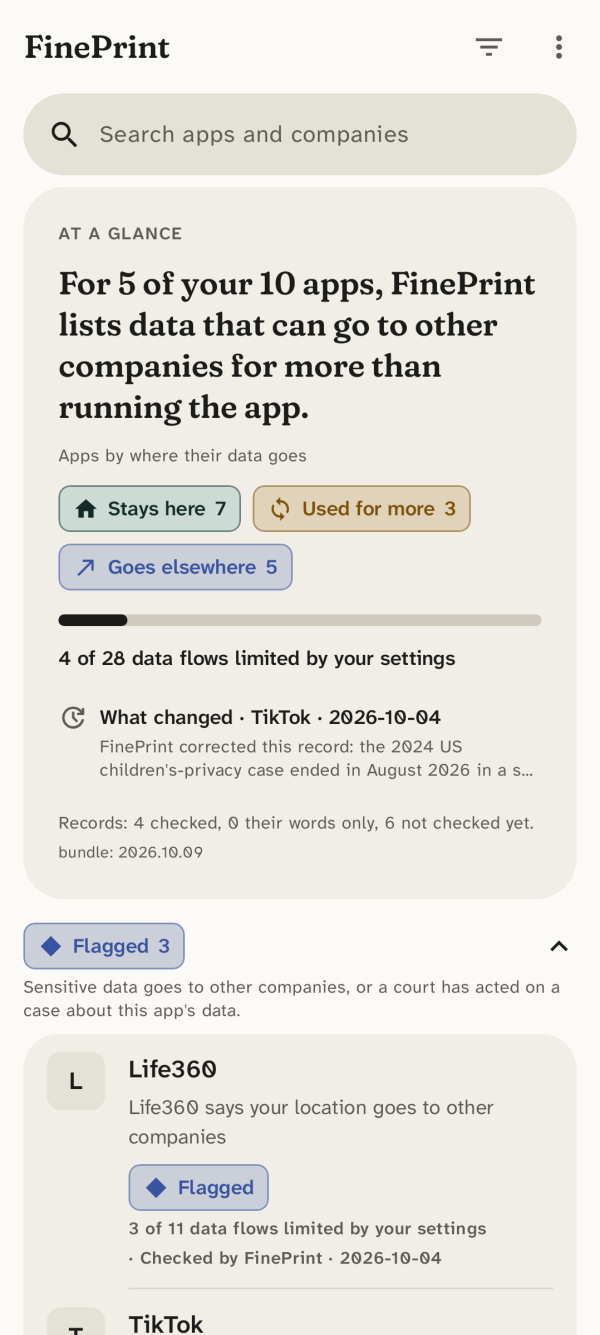
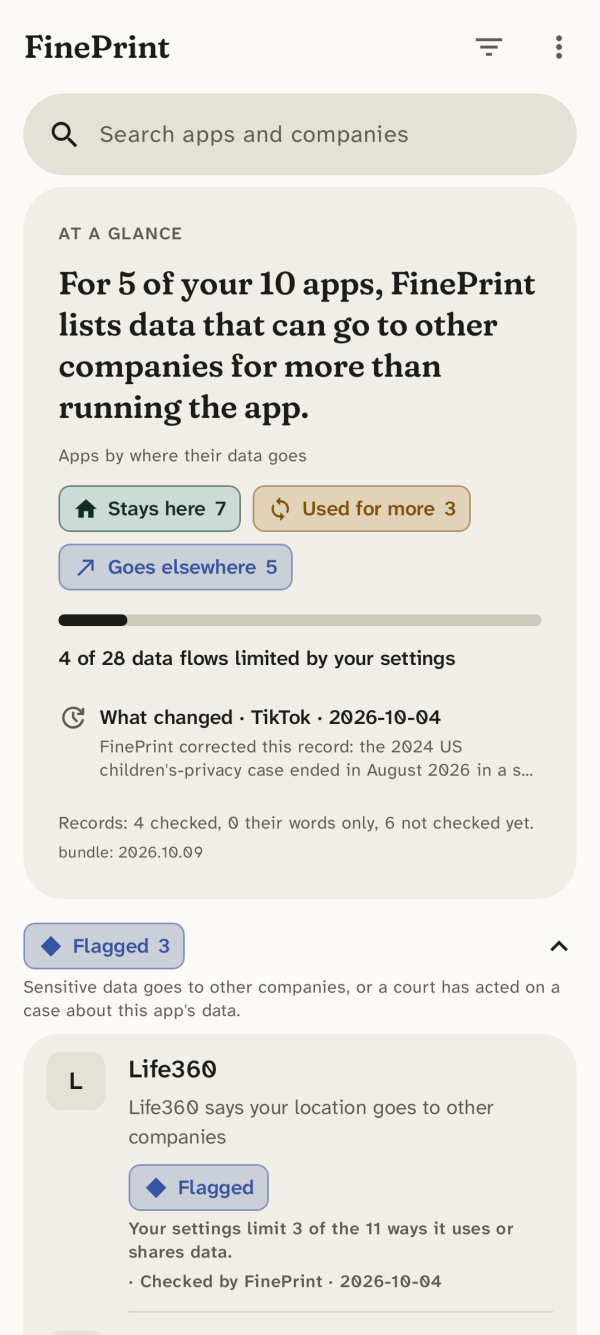
Reading pass: the fine print's caption, a plainer count, See all told apart
The fine print's eyebrow is THE FINE PRINT alone, with a caption under
it in the style of Their words' own: "Its privacy policy, store labels
and the public record on your data, in plain words."

An app's count of what its settings limit drops "flows": "Your settings
limit 3 of the 11 ways it uses or shares data." (on its page, its What
you can do card and its row on the home). At a glance keeps W13's "4 of
28 data flows limited by your settings".

The fine print's See all and a place's can show the same words ("See
all 16"). The words stay; TalkBack hears "See all 16 in the fine print"
or "See all 16 for Goes elsewhere", and the same for Show the first 4
(SeeAllTest).

How to read's Voice section gains a standing rule: no sentence starts
with Or, and a tier's definition is a short line plus a full line that
lists the conditions. pipeline/README.md names the button as the app
does: Ask FinePrint to check this app. README screenshots redrawn.

Claude-Session: https://claude.ai/code/session_016cezgH7PfKCPMWXu7PCC2T

Changed region(s): [[0.21, 0.8906, 0.75, 1.0], [0.78, 0.9213, 0.81, 0.9521], [0.12, 0.9828, 0.15, 1.0]]

diff --git a/android/app/src/main/java/com/longlifeio/fineprint/ui/DetailHero.kt b/android/app/src/main/java/com/longlifeio/fineprint/ui/DetailHero.kt
@@ -44,7 +44,6 @@ import com.longlifeio.fineprint.explain.ALSO
 import com.longlifeio.fineprint.explain.CHANGED
 import com.longlifeio.fineprint.explain.Explanation
 import com.longlifeio.fineprint.explain.FINE_PRINT_FIRST
-import com.longlifeio.fineprint.explain.FINE_PRINT_HEADING
 import com.longlifeio.fineprint.explain.FinePrintLine
 import com.longlifeio.fineprint.explain.FoldedLines
 import com.longlifeio.fineprint.explain.NO_RECORD
@@ -118,7 +117,7 @@ internal fun StoreTagline.asSource() = Source(sourceUrl, listingName(sourceUrl),
 
 /**
  * The hero (docs/METHOD.md, An app's page): the app's own short description, verbatim and attributed, then The fine
- * print · what FinePrint found: FinePrint's lines in reading order, each marked with an asterisk, in small type, those
+ * print and its caption: FinePrint's lines in reading order, each marked with an asterisk, in small type, those
  * that set the [tier] first under "Why it's Flagged" (or Caution) and the rest under "Also"; the first four, then See all.
  * Last, what it collects to run the app, folded into one line that opens to those lines.
  */
@@ -137,7 +136,8 @@ internal fun TheirWords(tagline: StoreTagline, lines: List<FinePrintLine>, folde
         Text(THEIR_WORDS.subtitle, style = MaterialTheme.typography.bodySmall, color = p.muted)
         if (lines.isNotEmpty() || folded != null) {
             HorizontalDivider(Modifier.padding(vertical = Space.s), color = p.divider)
-            Eyebrow(FINE_PRINT_HEADING)
+            Eyebrow(THE_FINE_PRINT.title)
+            Text(THE_FINE_PRINT.subtitle, style = MaterialTheme.typography.bodySmall, color = p.muted)
             val shown = if (all) lines else lines.take(FINE_PRINT_FIRST)
             val why = tier?.takeIf { lines.any { it.setsTier } }
             shown.forEachIndexed { i, line ->
@@ -147,14 +147,16 @@ internal fun TheirWords(tagline: StoreTagline, lines: List<FinePrintLine>, folde
             }
             if (lines.size > FINE_PRINT_FIRST) {
                 Box(Modifier.testTag("fine-print-all")) {
-                    LinkRow(if (all) "Show the first $FINE_PRINT_FIRST" else "See all ${lines.size}", if (all) R.drawable.ic_expand_less else R.drawable.ic_expand_more, inset = 0.dp) { all = !all }
+                    val label = if (all) "Show the first $FINE_PRINT_FIRST" else "See all ${lines.size}"
+                    // A place under Where it goes can show the same words; TalkBack hears which this is.
+                    LinkRow(label, if (all) R.drawable.ic_expand_less else R.drawable.ic_expand_more, inset = 0.dp, spoken = "$label in the fine print") { all = !all }
                 }
             }
             folded?.let { FoldedRow(it) }
         }
         val sources = (listOf(tagline.asSource()) + lines.flatMap { it.sources } + folded?.lines.orEmpty().flatMap { it.sources })
             .distinctBy { it.url + "|" + it.title }
-        SourcesRow("${THEIR_WORDS.title} and ${THE_FINE_PRINT.lowercase()}", sources, null, onSources)
+        SourcesRow("${THEIR_WORDS.title} and ${THE_FINE_PRINT.title.lowercase()}", sources, null, onSources)
     }
 }
 

diff --git a/android/app/src/test/java/com/longlifeio/fineprint/ui/SeeAllTest.kt b/android/app/src/test/java/com/longlifeio/fineprint/ui/SeeAllTest.kt
@@ -1,0 +1,54 @@
+package com.longlifeio.fineprint.ui
+
+import androidx.compose.ui.test.hasContentDescription
+import androidx.compose.ui.test.junit4.createComposeRule
+import androidx.compose.ui.test.onNodeWithTag
+import androidx.compose.ui.test.performScrollToNode
+import com.longlifeio.fineprint.bundle.parseBundle
+import com.longlifeio.fineprint.design.parseFixture
+import com.longlifeio.fineprint.egress.parseTrackerSignatures
+import com.longlifeio.fineprint.explain.GOES_ELSEWHERE
+import com.longlifeio.fineprint.explain.explain
+import com.longlifeio.fineprint.explain.finePrint
+import com.longlifeio.fineprint.explain.whatYouCanDo
+import com.longlifeio.fineprint.review.ReviewStatus
+import com.longlifeio.fineprint.review.ReviewView
+import org.junit.Assert.assertTrue
+import org.junit.Rule
+import org.junit.Test
+import org.junit.runner.RunWith
+import org.robolectric.RobolectricTestRunner
+import org.robolectric.annotation.Config
+import org.robolectric.annotation.GraphicsMode
+import java.io.File
+
+/** The fine print's See all and a place's can show the same words ("See all 16"); TalkBack hears which is which. */
+@RunWith(RobolectricTestRunner::class)
+@GraphicsMode(GraphicsMode.Mode.NATIVE)
+@Config(sdk = [36], qualifiers = "w411dp-h914dp-420dpi")
+class SeeAllTest {
+
+    @get:Rule val compose = createComposeRule()
+
+    @Test
+    fun eachSeeAllSaysWhatItOpens() {
+        val bundle = parseBundle(File("../../bundle/bundle.json").readText(), File("../../bundle/jurisdictions.json").readText())
+        val signatures = parseTrackerSignatures(File("src/main/assets/trackers.json").readText()).trackers.associateBy { it.id }
+        val (apps, scans) = parseFixture(File("src/debug/assets/scan-fixture.json").readText())
+        val app = apps.single { it.packageName == "com.life360.android.safetymapd" }
+        val e = explain(app, scans[app.scanKey], bundle, signatures)
+        val (lines, place) = finePrint(e).size to e.flows.getValue(GOES_ELSEWHERE).size
+        assertTrue("both have more than they show first", lines > 4 && place > 4)
+        compose.setContent {
+            AppDetailScreen(
+                app = app, explanation = e, check = whatYouCanDo(app, e, bundle.apps[app.packageName], bundle.permissions.mapValues { it.value.feeds }, emptySet()),
+                review = ReviewView(ReviewStatus.NOT_REVIEWED), result = scans[app.scanKey], signatures = null, bundleVersion = bundle.version,
+                onBack = {}, onOpenSettings = {}, onHowToRead = {}, onMarkReviewed = {}, onClearMark = {}, onTick = { _, _ -> },
+                buckets = OpenBuckets({ _, default -> default }, { _, _ -> }),
+            )
+        }
+        val page = compose.onNodeWithTag("detail")
+        page.performScrollToNode(hasContentDescription("See all $lines in the fine print"))
+        page.performScrollToNode(hasContentDescription("See all $place for Goes elsewhere"))
+    }
+}

diff --git a/android/app/src/main/java/com/longlifeio/fineprint/ui/DetailSections.kt b/android/app/src/main/java/com/longlifeio/fineprint/ui/DetailSections.kt
@@ -23,6 +23,7 @@ import androidx.compose.ui.Modifier
 import androidx.compose.ui.platform.testTag
 import androidx.compose.ui.res.painterResource
 import androidx.compose.ui.semantics.clearAndSetSemantics
+import androidx.compose.ui.semantics.contentDescription
 import androidx.compose.ui.semantics.heading
 import androidx.compose.ui.semantics.text
 import androidx.compose.ui.text.AnnotatedString
@@ -113,7 +114,8 @@ fun LazyListScope.detailSections(
             if (lines.size > BUCKET_FIRST) {
                 cardItem(key = "more:$bucket") {
                     Box(Modifier.testTag("more:$bucket")) {
-                        LinkRow(if (all) "Show the first $BUCKET_FIRST" else "See all ${lines.size}", if (all) R.drawable.ic_expand_less else R.drawable.ic_expand_more) { buckets.toggle(bucket) }
+                        val label = if (all) "Show the first $BUCKET_FIRST" else "See all ${lines.size}"
+                        LinkRow(label, if (all) R.drawable.ic_expand_less else R.drawable.ic_expand_more, spoken = "$label for ${BUCKET_TEXT.getValue(bucket).title}") { buckets.toggle(bucket) }
                     }
                 }
             }
@@ -239,15 +241,19 @@ private fun DataChip(label: String) {
     }
 }
 
-/** A text link with an icon, 48dp tall; [inset] is its side padding (none in the hero, whose card pads it). */
+/**
+ * A text link with an icon, 48dp tall; [inset] is its side padding (none in the hero, whose card pads it), and [spoken]
+ * what TalkBack reads when the words alone don't say which link this is.
+ */
 @Composable
-fun LinkRow(text: String, icon: Int, inset: Dp = 16.dp, onClick: (() -> Unit)?) {
+fun LinkRow(text: String, icon: Int, inset: Dp = 16.dp, spoken: String? = null, onClick: (() -> Unit)?) {
     val colour = if (onClick != null) MaterialTheme.colorScheme.primary else MaterialTheme.colorScheme.onSurfaceVariant
     Row(
         verticalAlignment = Alignment.CenterVertically,
         horizontalArrangement = Arrangement.spacedBy(8.dp),
         // Null: shown, but it opens nothing (a note under it says why).
-        modifier = Modifier.fillMaxWidth().heightIn(min = TOUCH).clickable(enabled = onClick != null) { onClick?.invoke() }.padding(horizontal = inset),
+        modifier = Modifier.fillMaxWidth().heightIn(min = TOUCH).clickable(enabled = onClick != null) { onClick?.invoke() }
+            .then(if (spoken != null) Modifier.semantics { contentDescription = spoken } else Modifier).padding(horizontal = inset),
     ) {
         Text(text, style = MaterialTheme.typography.labelLarge, color = colour, modifier = Modifier.weight(1f))
         Icon(painterResource(icon), contentDescription = null, tint = colour, modifier = Modifier.size(20.dp))

diff --git a/android/app/src/test/java/com/longlifeio/fineprint/explain/WhatYouCanDoTest.kt b/android/app/src/test/java/com/longlifeio/fineprint/explain/WhatYouCanDoTest.kt
@@ -35,9 +35,9 @@ class WhatYouCanDoTest {
         assertEquals(listOf(true, false), on.items.map { it.automatic })
         assertEquals(false, on.items.first().ticked)
         // Two current lines go beyond the app (Partners, and Arity's alleged flow); nothing limits them yet.
-        assertEquals("0 of 2 data flows limited by your settings", on.summary)
+        assertEquals("Your settings limit 0 of the 2 ways it uses or shares data.", on.summary)
         // Turning precise location off in Android limits both: both are location or driving data.
-        assertEquals("2 of 2 data flows limited by your settings", check(fineLocationGranted = false).summary)
+        assertEquals("Your settings limit 2 of the 2 ways it uses or shares data.", check(fineLocationGranted = false).summary)
     }
 
     @Test
@@ -46,7 +46,7 @@ class WhatYouCanDoTest {
         val partners = ticked.items.single { it.id == "ctl-partners" }
         assertEquals(true, partners.ticked)
         assertEquals("Example doesn't say what changes.", partners.effect)
-        assertEquals("1 of 2 data flows limited by your settings", ticked.summary)
+        assertEquals("Your settings limit 1 of the 2 ways it uses or shares data.", ticked.summary)
         assertNull(ticked.inAppText) // the record's structured controls replace its free text
     }
 
@@ -79,7 +79,7 @@ class WhatYouCanDoTest {
         )
         val c = whatYouCanDo(life360, explain(life360, scan, real, emptyMap()), real.apps.getValue(life360.packageName), real.permissions.mapValues { it.value.feeds }, emptySet())
         // Six current lines from Life360's record, Arity's alleged line and AdMob's three from Google's own disclosure.
-        assertEquals("3 of 10 data flows limited by your settings", c.summary)
+        assertEquals("Your settings limit 3 of the 10 ways it uses or shares data.", c.summary)
         val choices = c.items.single { it.id == "ctl-l360-privacy-choices" }
         assertEquals(listOf(true), choices.notes.map { it.startsWith("Life360's policy says this covers sales of precise location") })
         assertEquals(CHECK_IN_APP, choices.subtext)

diff --git a/android/app/src/test/java/com/longlifeio/fineprint/explain/MethodDocTest.kt b/android/app/src/test/java/com/longlifeio/fineprint/explain/MethodDocTest.kt
@@ -19,7 +19,7 @@ class MethodDocTest {
 
     @Test
     fun everyDefinitionTheScreensShowIsInTheMethod() {
-        val sections = listOf(SUMMARY_CURATED, SUMMARY_AUTO, SUMMARY_INHERITED, COLLECTS, WHERE_IT_GOES, APPLIES, WHAT_YOU_CAN_DO, ON_THE_RECORD, ONGOING, PAST, ALSO_REPORTED, DEVICE_ACCESS, EVIDENCE, RECENT_CHANGES, HISTORY, JURISDICTIONS, SOURCES, THEIR_WORDS)
+        val sections = listOf(SUMMARY_CURATED, SUMMARY_AUTO, SUMMARY_INHERITED, COLLECTS, WHERE_IT_GOES, APPLIES, WHAT_YOU_CAN_DO, ON_THE_RECORD, ONGOING, PAST, ALSO_REPORTED, DEVICE_ACCESS, EVIDENCE, RECENT_CHANGES, HISTORY, JURISDICTIONS, SOURCES, THEIR_WORDS, THE_FINE_PRINT)
         val shown = sections.flatMap { listOf(it.title, it.subtitle) } +
             BUCKET_TEXT.values.flatMap { listOf(it.title, it.subtitle) } +
             BADGES.values.flatMap { listOf(it.label, it.definition) } +
@@ -33,7 +33,7 @@ class MethodDocTest {
             listOf(NOT_RECORDED.title, NOT_RECORDED.subtitle, ALSO_COLLECTED, PURPOSE_NOT_RECORDED, CANT_SEE_SETTING) +
             listOf(CHECKED_BY, THEIR_WORDS_ONLY_LINE, NO_RECORD_LINE, ListFilter.CHECKED.label, ListFilter.THEIR_WORDS.label) +
             listOf(ASK_FOR_REVIEW, REVIEW_DISCLOSURE, OPEN_GITHUB) +
-            listOf("$WHY:", whyItIs(Tier.FLAGGED), whyItIs(Tier.CAUTION), ALSO, FINE_PRINT_HEADING, lastChecked("this law", "2026-10-07"), "Show it in full") + BUCKETS.map { "${BUCKET_TEXT.getValue(it).title} · ${BUCKET_GLOSS.getValue(it)}" } +
+            listOf("$WHY:", whyItIs(Tier.FLAGGED), whyItIs(Tier.CAUTION), ALSO, lastChecked("this law", "2026-10-07"), "Show it in full") + BUCKETS.map { "${BUCKET_TEXT.getValue(it).title} · ${BUCKET_GLOSS.getValue(it)}" } +
             listOf(CHECK_ANDROID_OFF, CHECK_ANDROID_ON, CHECK_IN_APP, CHECK_ANDROID_UNSEEN)
         assertEquals(emptyList<String>(), shown.filterNot { it in published })
     }

diff --git a/android/app/src/androidTest/java/com/longlifeio/fineprint/ui/DetailTest.kt b/android/app/src/androidTest/java/com/longlifeio/fineprint/ui/DetailTest.kt
@@ -27,7 +27,7 @@ import androidx.compose.ui.test.hasAnyAncestor
 import androidx.compose.ui.test.hasTestTag
 import com.longlifeio.fineprint.explain.explain
 import com.longlifeio.fineprint.explain.FINE_PRINT_FIRST
-import com.longlifeio.fineprint.explain.FINE_PRINT_HEADING
+import com.longlifeio.fineprint.explain.THE_FINE_PRINT
 import com.longlifeio.fineprint.explain.finePrint
 import com.longlifeio.fineprint.explain.spoken
 import com.longlifeio.fineprint.explain.whatYouCanDo
@@ -87,7 +87,8 @@ class DetailTest {
         compose.onNodeWithText(THEIR_WORDS.title).assertExists()
         compose.onNodeWithText("“${tagline.text}”").assertExists() // read without the asterisk that points at the fine print
         compose.onNodeWithText("— Google Play listing (Canada), read 2026-10-07").assertExists()
-        compose.onNodeWithText(FINE_PRINT_HEADING).assertExists()
+        compose.onNodeWithText(THE_FINE_PRINT.title).assertExists()
+        compose.onNodeWithText(THE_FINE_PRINT.subtitle).assertExists()
         // The first four fine-print lines, each one stop for TalkBack; their asterisks are drawn, not read. See all opens the rest.
         val lines = finePrint(e)
         assertTrue(lines.size > FINE_PRINT_FIRST)

diff --git a/android/app/src/main/java/com/longlifeio/fineprint/explain/WhatYouCanDo.kt b/android/app/src/main/java/com/longlifeio/fineprint/explain/WhatYouCanDo.kt
@@ -35,8 +35,8 @@ data class CheckItem(
 
 /** The "What you can do" checklist, how many of the app's current flows it limits, and free-text controls for records without structured ones. */
 data class WhatYouCanDo(val items: List<CheckItem>, val limited: Int, val total: Int, val inAppText: String?) {
-    /** "3 of 11 data flows limited by your settings"; null when nothing goes beyond running the app. */
-    val summary: String? get() = if (total == 0) null else "$limited of $total data ${if (total == 1) "flow" else "flows"} limited by your settings"
+    /** "Your settings limit 3 of the 11 ways it uses or shares data."; null when nothing goes beyond running the app. */
+    val summary: String? get() = if (total == 0) null else "Your settings limit $limited of the $total ${if (total == 1) "way" else "ways"} it uses or shares data."
 }
 
 private const val AD_ID = "com.google.android.gms.permission.AD_ID"

diff --git a/android/app/src/main/java/com/longlifeio/fineprint/explain/Wording.kt b/android/app/src/main/java/com/longlifeio/fineprint/explain/Wording.kt
@@ -52,8 +52,7 @@ val SOURCES = SectionText("Sources", "Every number on this page is one of these,
 /** The top of an app's page, when its store description is on record. */
 val THEIR_WORDS = SectionText("Their words", "The app's own short description on its Google Play listing, word for word.")
 /** The hero's second part, FinePrint's own claims: the first four, then See all. */
-const val THE_FINE_PRINT = "The fine print"
-const val FINE_PRINT_HEADING = "$THE_FINE_PRINT · what FinePrint found"
+val THE_FINE_PRINT = SectionText("The fine print", "Its privacy policy, store labels and the public record on your data, in plain words.")
 /** The home's bar: the product's name, shown on no other screen. */
 const val HOME_WORDMARK = "FinePrint"
 

diff --git a/android/app/src/main/assets/METHOD.md b/android/app/src/main/assets/METHOD.md
@@ -29,7 +29,7 @@ The home shows the same on each app in small text, such as Checked by FinePrint 
 When FinePrint has an app's store description on record, its page opens with it, above the sections:
 
 - Their words: The app's own short description on its Google Play listing, word for word.
-- The fine print · what FinePrint found: FinePrint's own claims about the app, chosen the same way for every app.
+- The fine print: Its privacy policy, store labels and the public record on your data, in plain words.
 
 The fine print lists FinePrint's claims in the reading order set out under Where data goes, from what goes to other companies and what the app's own company uses it for: the claims that set the tier first, under Why it's Flagged or Why it's Caution, and the rest under Also. It shows the first four, then See all with how many there are. A claim from a lawsuit or complaint is there only once a judge has let the case go ahead or a regulator has opened a proceeding; one that has only been filed stays under Where it goes and On the record. What the app collects to run itself follows as one line, Also collected to run the app, which opens to those claims, each with its badge. An app without a store description on record opens with its Summary.
 
@@ -162,7 +162,7 @@ The line under each item says which kind it is:
 - Check this yourself — FinePrint can't see settings inside other apps.
 - Check this yourself — FinePrint can't see this Android setting.
 
-The page and the list say how many of the app's current flows your settings limit, such as 3 of 7 data flows limited by your settings. Each flow counts once: a line FinePrint inferred from tracker code counts only when it adds data that the checked lines don't already cover. Flows that stay with the app, and past practices, aren't counted.
+The page and the list say how many of the app's current flows your settings limit, such as Your settings limit 3 of the 7 ways it uses or shares data. Each flow counts once: a line FinePrint inferred from tracker code counts only when it adds data that the checked lines don't already cover. Flows that stay with the app, and past practices, aren't counted.
 
 - Limited: Limited means a setting you've changed applies to it: an Android permission turned off, or an in-app setting ticked. Limited doesn't mean stopped.
 
@@ -265,6 +265,7 @@ Say which app, what's wrong and, if you can, where the right information is. The
 FinePrint's words follow a few rules, so every screen reads the same way.
 
 - One idea per sentence. A line runs to about 20 words; a chip or heading to about 12.
+- No sentence starts with Or; tier definitions are a short line plus a full line that lists the conditions.
 - The sentence carries the claim; the chip, date, footnote, Sources sheet and expand arrow carry its status and source. A qualifier moves there; it's never dropped.
 - Name who says it: the app says, a court ruled, a regulator found, reporters found. A status word isn't an adjective.
 - Write you and this app, not the user or the record.

diff --git a/docs/METHOD.md b/docs/METHOD.md
@@ -29,7 +29,7 @@ The home shows the same on each app in small text, such as Checked by FinePrint 
 When FinePrint has an app's store description on record, its page opens with it, above the sections:
 
 - Their words: The app's own short description on its Google Play listing, word for word.
-- The fine print · what FinePrint found: FinePrint's own claims about the app, chosen the same way for every app.
+- The fine print: Its privacy policy, store labels and the public record on your data, in plain words.
 
 The fine print lists FinePrint's claims in the reading order set out under Where data goes, from what goes to other companies and what the app's own company uses it for: the claims that set the tier first, under Why it's Flagged or Why it's Caution, and the rest under Also. It shows the first four, then See all with how many there are. A claim from a lawsuit or complaint is there only once a judge has let the case go ahead or a regulator has opened a proceeding; one that has only been filed stays under Where it goes and On the record. What the app collects to run itself follows as one line, Also collected to run the app, which opens to those claims, each with its badge. An app without a store description on record opens with its Summary.
 
@@ -162,7 +162,7 @@ The line under each item says which kind it is:
 - Check this yourself — FinePrint can't see settings inside other apps.
 - Check this yourself — FinePrint can't see this Android setting.
 
-The page and the list say how many of the app's current flows your settings limit, such as 3 of 7 data flows limited by your settings. Each flow counts once: a line FinePrint inferred from tracker code counts only when it adds data that the checked lines don't already cover. Flows that stay with the app, and past practices, aren't counted.
+The page and the list say how many of the app's current flows your settings limit, such as Your settings limit 3 of the 7 ways it uses or shares data. Each flow counts once: a line FinePrint inferred from tracker code counts only when it adds data that the checked lines don't already cover. Flows that stay with the app, and past practices, aren't counted.
 
 - Limited: Limited means a setting you've changed applies to it: an Android permission turned off, or an in-app setting ticked. Limited doesn't mean stopped.
 
@@ -265,6 +265,7 @@ Say which app, what's wrong and, if you can, where the right information is. The
 FinePrint's words follow a few rules, so every screen reads the same way.
 
 - One idea per sentence. A line runs to about 20 words; a chip or heading to about 12.
+- No sentence starts with Or; tier definitions are a short line plus a full line that lists the conditions.
 - The sentence carries the claim; the chip, date, footnote, Sources sheet and expand arrow carry its status and source. A qualifier moves there; it's never dropped.
 - Name who says it: the app says, a court ruled, a regulator found, reporters found. A status word isn't an adjective.
 - Write you and this app, not the user or the record.

diff --git a/pipeline/README.md b/pipeline/README.md
@@ -31,7 +31,7 @@ Serve for dev: `python3 -m http.server <port> --directory ../bundle` (see `andro
 
 ## Review requests
 
-Issues labelled `review-request` come from the app's "Ask FinePrint to review this app" (on pages that read Their
+Issues labelled `review-request` come from the app's "Ask FinePrint to check this app" (on pages that read Their
 words only or No record yet), through `.github/ISSUE_TEMPLATE/review-request.yml`. Triage:
 
 - Dedupe by package: keep the first issue for a package, add a +1 reaction to it for each duplicate, and close the
